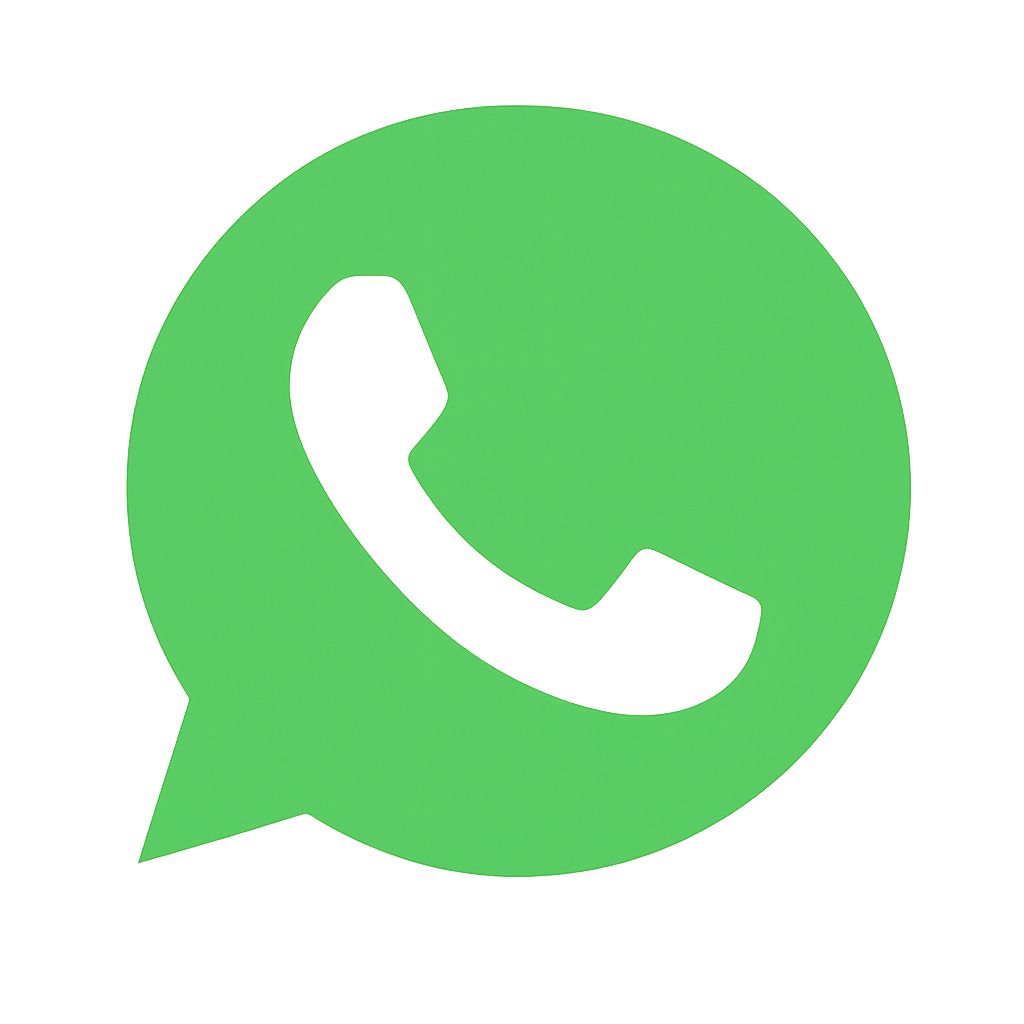
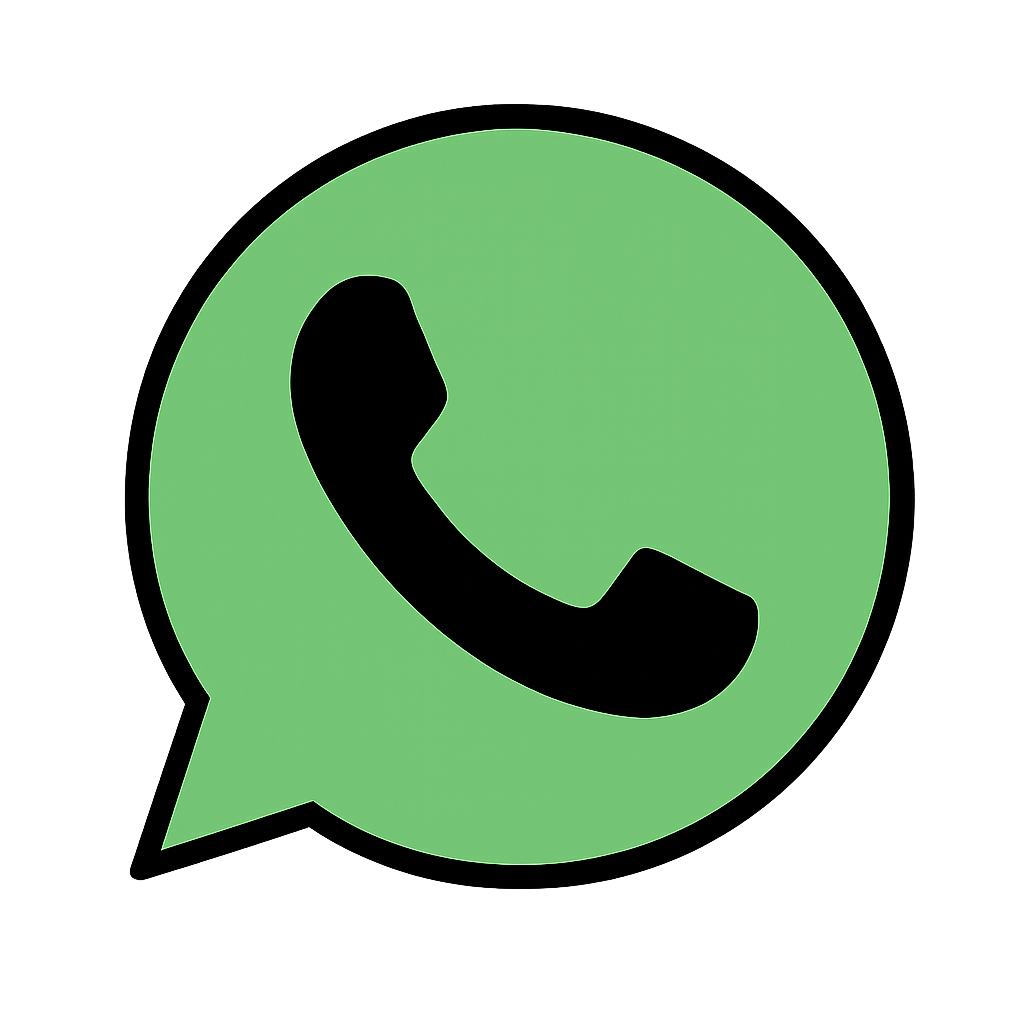
termine

diff --git a/pages/branding.html b/pages/branding.html
@@ -136,10 +136,9 @@
             </div>
             <div class="col-md-6">
               <h2 class="text-primary mb-3">¿Qué incluye este servicio?</h2>
-              <p>✔ Kit de marca completo (logo, paleta, tipografías)</p>
-              <p>✔ Manual de marca profesional</p>
-              <p>✔ Archivos listos para redes, web y papelería</p>
-              <p>✔ Presentación profesional editable para clientes</p>
+              <p class="qs">✔ Kit de marca básico (logo, paleta, tipografías)</p>
+              <p class="qs">✔ Manual de marca profesional: kit de marca básico + usos,voz iconografía, ejemplos visuales</p>
+              <p class="qs">✔ Presentación Profesional + Kit Cliente: Branding completo con presentación, mockups y editable Canva</p>
             </div>
           </div>
         </div>
@@ -191,29 +190,25 @@
       <section class="py-5 text-dark">
         <div class="container">
           <h2 class="text-center text-primary mb-5">
-            Nuestra implementación de branding
+            Implementación de branding
           </h2>
           <div class="row gy-4">
             <div class="col-md-4">
               <h5>🎨 Paleta de colores</h5>
               <p>
-                Utilizamos azul institucional (#0d6efd), oscuros (#212529) y
-                acentos en blanco y celeste para transmitir profesionalismo y
-                elegancia.
+                Se aplica una combinación cromática diseñada para transmitir profesionalismo, coherencia visual y adaptarse a las necesidades específicas de cada proyecto.
               </p>
             </div>
             <div class="col-md-4">
               <h5>🔠 Tipografía</h5>
               <p>
-                Montserrat para títulos, Open Sans y Poppins para textos.
-                Legibles, modernas y bien jerarquizadas.
+                Se seleccionan fuentes modernas y legibles, con una jerarquía clara que favorece la lectura y refuerza la identidad visual de forma versátil.
               </p>
             </div>
             <div class="col-md-4">
               <h5>🖼 Logo adaptable</h5>
               <p>
-                El logo está implementado correctamente en header, footer y
-                versiones móviles, conservando protagonismo visual.
+                El logotipo se implementa de manera estratégica en los distintos puntos de contacto, manteniendo consistencia, visibilidad y adaptabilidad en todos los formatos.
               </p>
             </div>
           </div>
@@ -244,6 +239,15 @@
         <small>Todos los derechos reservados © 2025</small>
       </div>
     </footer>
+    <!-- WhatsApp -->
+    <a
+      href="https://wa.me/5493515524067"
+      class="whatsapp-float"
+      target="_blank"
+      rel="noopener"
+    >
+      <img src="../assets/icono-wp.png" alt="WhatsApp" />
+    </a>
 
     <script src="https://cdn.jsdelivr.net/npm/bootstrap@5.3.7/dist/js/bootstrap.bundle.min.js"></script>
     <script src="https://unpkg.com/aos@2.3.1/dist/aos.js"></script>

diff --git a/pages/presentaciones.html b/pages/presentaciones.html
@@ -135,10 +135,10 @@
         <div class="col-md-6">
           <h2 class="text-primary mb-3">¿Qué incluye este servicio?</h2>
           
-            <p>✔ Diseño de presentación en PowerPoint o Canva</p>
-            <p>✔ Plantillas visuales personalizadas por secciones</p>
-            <p>✔ Redacción optimizada de mensajes clave</p>
-            <p>✔ Entrega editable + versión lista para enviar</p>
+            <p class="qs">✔ Diseño de presentación en PowerPoint o Canva</p>
+            <p class="qs">✔ Plantillas visuales personalizadas por secciones: diseño coherente con la identidad visual, distribución estratégica del contenido y estructura adaptable al tipo de presentación.</p>
+            <p class="qs">✔ Redacción optimizada de mensajes clave: síntesis clara de ideas, enfoque persuasivo según el objetivo y uso de lenguaje profesional y accesible.</p>
+            <p class="qs">✔ Entrega editable + versión lista para enviar: archivo en formato PowerPoint o Canva editable, versión PDF final para compartir y compatibilidad multiplataforma.</p>
           
         </div>
       </div>
@@ -207,6 +207,15 @@
         <small>Todos los derechos reservados © 2025</small>
       </div>
     </footer>
+    <!-- WhatsApp -->
+    <a
+      href="https://wa.me/5493515524067"
+      class="whatsapp-float"
+      target="_blank"
+      rel="noopener"
+    >
+      <img src="../assets/icono-wp.png" alt="WhatsApp" />
+    </a>
 
     <script src="https://cdn.jsdelivr.net/npm/bootstrap@5.3.7/dist/js/bootstrap.bundle.min.js"></script>
     <script src="https://unpkg.com/aos@2.3.1/dist/aos.js"></script>

diff --git a/pages/estudio-mercado-seo.html b/pages/estudio-mercado-seo.html
@@ -135,10 +135,10 @@
         <div class="col-md-6">
           <h2 class="text-primary mb-3">¿Qué incluye este servicio?</h2>
           
-            <p>✔ Análisis de mercado local, audiencia y competidores</p>
-            <p>✔ Buyer persona y oportunidades de posicionamiento</p>
-            <p>✔ Optimización SEO inicial: keywords, metatags, estructura</p>
-            <p>✔ Informe estratégico + recomendaciones prácticas</p>
+            <p class="qs">✔ Análisis de mercado local, audiencia y competidores: Análisis de competencia, mapa de clientes, insights clave</p>
+            <p class="qs">✔ Buyer persona y oportunidades de posicionamiento: Definición del cliente ideal, análisis de necesidades, problemas y deseos, identificación de canales de búsqueda e interacción comportamientos de compra y toma de decisiones</p>
+            <p class="qs">✔ Optimización SEO inicial: Títulos, keywords, estructura, carga, copy optimizado</p>
+            <p class="qs">✔ Informe estratégico + recomendaciones prácticas</p>
          
         </div>
       </div>
@@ -207,7 +207,15 @@
         <small>Todos los derechos reservados © 2025</small>
       </div>
     </footer>
-
+<!-- WhatsApp -->
+    <a
+      href="https://wa.me/5493515524067"
+      class="whatsapp-float"
+      target="_blank"
+      rel="noopener"
+    >
+      <img src="../assets/icono-wp.png" alt="WhatsApp" />
+    </a>
     <script src="https://cdn.jsdelivr.net/npm/bootstrap@5.3.7/dist/js/bootstrap.bundle.min.js"></script>
     <script src="https://unpkg.com/aos@2.3.1/dist/aos.js"></script>
     <script>

diff --git a/pages/automatizacion.html b/pages/automatizacion.html
@@ -137,11 +137,10 @@
         <div class="col-md-6">
           <h2 class="text-primary mb-3">¿Qué incluye este servicio?</h2>
           
-            <p>✔ Automatización de contenido en redes y emails</p>
-            <p>✔ Formularios inteligentes conectados a bases de datos</p>
-            <p>✔ Integraciones con Make, Zapier y herramientas AI</p>
-            <p
-            >✔ Reportes automáticos y procesos sin intervención manual</p>
+            <p class="qs">✔ Automatización Email Marketing: Flujos en MailerLite o ActiveCampaign + redacción + diseño</p>
+            <p class="qs">✔ Landing Page + Guía + Automatización: Página en Squarespace + guía descargable + integración con Zapier</p>
+            <p class="qs">✔ Integraciones con Make, Zapier y herramientas AI</p>
+            <p class="qs">✔ Embudo Completo de Captación: Lead magnet, landing, automatización, email marketing, contenido</p>
           
         </div>
       </div>
@@ -213,6 +212,15 @@
         <small>Todos los derechos reservados © 2025</small>
       </div>
     </footer>
+    <!-- WhatsApp -->
+    <a
+      href="https://wa.me/5493515524067"
+      class="whatsapp-float"
+      target="_blank"
+      rel="noopener"
+    >
+      <img src="../assets/icono-wp.png" alt="WhatsApp" />
+    </a>
 
     <script src="https://cdn.jsdelivr.net/npm/bootstrap@5.3.7/dist/js/bootstrap.bundle.min.js"></script>
     <script src="https://unpkg.com/aos@2.3.1/dist/aos.js"></script>

diff --git a/pages/redes-sociales.html b/pages/redes-sociales.html
@@ -134,10 +134,10 @@
         <div class="col-md-6">
           <h2 class="text-primary mb-3">¿Qué incluye este servicio?</h2>
           <ul>
-            <p>✔ Calendario mensual de contenido estratégico</p>
-            <p>✔ Diseño visual profesional para Instagram, Facebook y LinkedIn</p>
-            <p>✔ Automatización de publicaciones y reportes</p>
-            <p>✔ Optimización de biografía y enlaces inteligentes</p>
+            <p class="qs">✔ Pack Semanal de Contenido: 5 posts + 5 historias + copies SEO y hashtags</p>
+            <p class="qs">✔ Gestión Mensual de Redes: 20 publicaciones + programación + reportes + comunidad</p>
+            <p class="qs">✔ Diseño de plantillas: 10 plantillas personalizadas según identidad de marca</p>
+            <p class="qs">✔ Optimización de elementos clave en perfiles</p>
           </ul>
         </div>
       </div>
@@ -235,6 +235,15 @@
         <small>Todos los derechos reservados © 2025</small>
       </div>
     </footer>
+    <!-- WhatsApp -->
+    <a
+      href="https://wa.me/5493515524067"
+      class="whatsapp-float"
+      target="_blank"
+      rel="noopener"
+    >
+      <img src="../assets/icono-wp.png" alt="WhatsApp" />
+    </a>
 
     <script src="https://cdn.jsdelivr.net/npm/bootstrap@5.3.7/dist/js/bootstrap.bundle.min.js"></script>
     <script src="https://unpkg.com/aos@2.3.1/dist/aos.js"></script>

diff --git a/pages/consultoria.html b/pages/consultoria.html
@@ -136,10 +136,10 @@
         <div class="col-md-6">
           <h2 class="text-primary mb-3">¿Qué incluye este servicio?</h2>
           
-            <p>✔ Análisis integral del modelo de negocio</p>
-            <p>✔ Auditoría de procesos digitales y comunicación</p>
-            <p>✔ Definición de objetivos y KPIs medibles</p>
-            <p>✔ Plan de acción estratégico personalizado</p>
+            <p class="qs">✔ Sesión 1 a 1 de Estrategia: 60 min vía Zoom + informe y plan de acción/p>
+            <p class="qs">✔ Plan de Marketing Personalizado: Auditoría + estrategia por fases + calendario de acción</p>
+            <p class="qs">✔ Mentoría mensual: 4 sesiones + seguimiento + soporte directo</p>
+           
           
         </div>
       </div>
@@ -208,6 +208,15 @@
         <small>Todos los derechos reservados © 2025</small>
       </div>
     </footer>
+    <!-- WhatsApp -->
+    <a
+      href="https://wa.me/5493515524067"
+      class="whatsapp-float"
+      target="_blank"
+      rel="noopener"
+    >
+      <img src="../assets/icono-wp.png" alt="WhatsApp" />
+    </a>
 
     <script src="https://cdn.jsdelivr.net/npm/bootstrap@5.3.7/dist/js/bootstrap.bundle.min.js"></script>
     <script src="https://unpkg.com/aos@2.3.1/dist/aos.js"></script>

diff --git a/pages/contacto.html b/pages/contacto.html
@@ -235,6 +235,15 @@
         <small>Todos los derechos reservados © 2025</small>
       </div>
     </footer>
+    <!-- WhatsApp -->
+    <a
+      href="https://wa.me/5493515524067"
+      class="whatsapp-float"
+      target="_blank"
+      rel="noopener"
+    >
+      <img src="../assets/icono-wp.png" alt="WhatsApp" />
+    </a>
 
     <!-- Bootstrap JS -->
     <script src="https://cdn.jsdelivr.net/npm/bootstrap@5.3.7/dist/js/bootstrap.bundle.min.js"></script>

diff --git a/pages/guias-gratuitas.html b/pages/guias-gratuitas.html
@@ -180,6 +180,15 @@
         <small>Todos los derechos reservados © 2025</small>
       </div>
     </footer>
+    <!-- WhatsApp -->
+    <a
+      href="https://wa.me/5493515524067"
+      class="whatsapp-float"
+      target="_blank"
+      rel="noopener"
+    >
+      <img src="../assets/icono-wp.png" alt="WhatsApp" />
+    </a>
 
     <!-- Bootstrap JS -->
     <script src="https://cdn.jsdelivr.net/npm/bootstrap@5.3.7/dist/js/bootstrap.bundle.min.js"></script>

diff --git a/pages/servicios.html b/pages/servicios.html
@@ -375,6 +375,15 @@
         <small>Todos los derechos reservados © 2025</small>
       </div>
     </footer>
+    <!-- WhatsApp -->
+    <a
+      href="https://wa.me/5493515524067"
+      class="whatsapp-float"
+      target="_blank"
+      rel="noopener"
+    >
+      <img src="../assets/icono-wp.png" alt="WhatsApp" />
+    </a>
 
     <!-- Bootstrap JS -->
     <script src="https://cdn.jsdelivr.net/npm/bootstrap@5.3.7/dist/js/bootstrap.bundle.min.js"></script>

diff --git a/styles/style.css b/styles/style.css
@@ -565,7 +565,10 @@ nav.navbar .navbar-nav .nav-link.active {
 }
 
 .qs {
-  color: whitesmoke;
+  text-align: left; /* Alinea el texto a la izquierda */
+  line-height: 1.6; /* Mejora la lectura entre líneas */
+  letter-spacing: normal; /* Asegura espaciado normal entre letras */
+  word-spacing: normal; /* Evita separación exagerada entre palabras */
 }
 
 @media (min-width: 1200px) {
